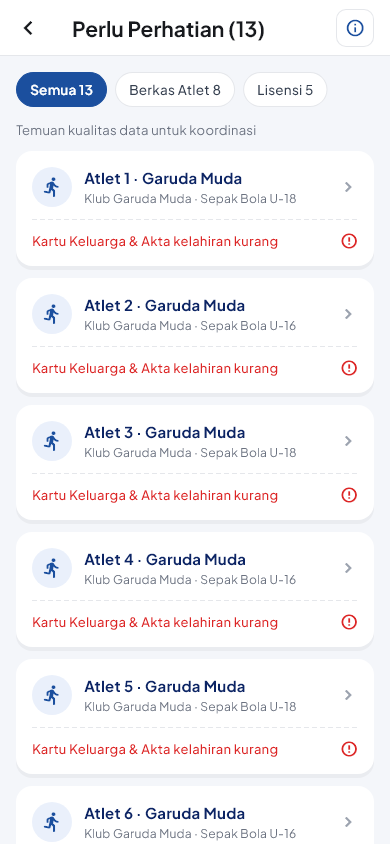
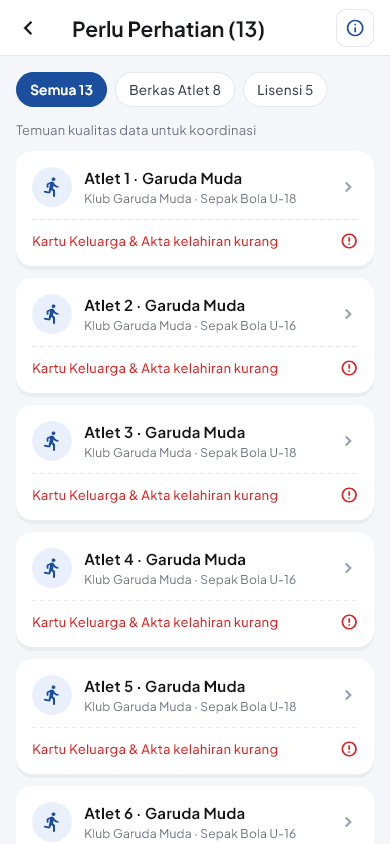
feat(theme): standardisasi warna judul kartu menggunakan KokColors.cardTitle sesuai wireframe slide 10

diff --git a/lib/core/theme.dart b/lib/core/theme.dart
@@ -1,14 +1,43 @@
 import 'package:flutter/material.dart';
 
 abstract final class KokColors {
-  static const navy = Color(0xFF071B68);
-  static const blue = Color(0xFF1B4F9E);
-  static const ink = Color(0xFF173D75);
-  static const background = Color(0xFFF4F6FA);
+  // --- Palet Warna Resmi (Dokumen Wireframe Slide 10) ---
+  /// Hitam (#141414) - Teks utama, judul kartu, garis tegas
+  static const textPrimary = Color(0xFF141414);
+  /// Alias semantik untuk teks judul pada kartu/baris daftar
+  static const cardTitle = textPrimary;
+
+  /// Abu teks (#666666) - Keterangan sekunder, meta
+  static const textSecondary = Color(0xFF666666);
   static const muted = Color(0xFF727782);
-  static const pale = Color(0xFFEAF0FB);
-  static const red = Color(0xFFC62828);
+
+  /// Biru primer (#1B4FA0 / #1B4F9E) - Warna utama: header, tab aktif, tombol utama
+  static const blue = Color(0xFF1B4F9E);
+  static const bluePrimary = blue;
+
+  /// Biru tua (#123A75) - Teks di atas biru, label penegas
+  static const ink = Color(0xFF173D75);
+  static const navy = Color(0xFF071B68);
+  static const deepNavy = Color(0xFF0C2464);
+
+  /// Biru sedang (#4D7FC9) - Bar data, ikon, garis aktif
+  static const blueMedium = Color(0xFF4D7FC9);
+
+  /// Biru muda (#E9F0FB) - Latar kartu terpilih, panel info
+  static const pale = Color(0xFFE9F0FB);
+  static const blueLight = pale;
+
+  /// Kuning (#F2B90C) - Sorot pencarian, status perlu dilengkapi
   static const yellow = Color(0xFFF2B90C);
+
+  /// Merah (#C62828) - Kritis: berkas kurang, lisensi kedaluwarsa
+  static const red = Color(0xFFC62828);
+
+  /// Latar belakang aplikasi umum (#F4F6FA)
+  static const background = Color(0xFFF4F6FA);
+
+  /// Abu garis (#CFCAC0 / #E5E7EB) - Batas kartu, chip pasif, pemisah
+  static const borderGray = Color(0xFFE5E7EB);
 }
 
 ThemeData kokTheme() => ThemeData(

diff --git a/lib/features/profile_page.dart b/lib/features/profile_page.dart
@@ -706,7 +706,7 @@ class _SyncStatusCard extends ConsumerWidget {
                   style: const TextStyle(
                     fontWeight: FontWeight.w700,
                     fontSize: 14,
-                    color: Color(0xFF0C2464),
+                    color: KokColors.cardTitle,
                   ),
                 ),
               ),
@@ -792,7 +792,7 @@ class _MenuTile extends StatelessWidget {
                 style: const TextStyle(
                   fontWeight: FontWeight.w700,
                   fontSize: 15,
-                  color: Color(0xFF0C2464),
+                  color: KokColors.cardTitle,
                 ),
               ),
               const SizedBox(height: 3),

diff --git a/lib/features/attention_page.dart b/lib/features/attention_page.dart
@@ -397,7 +397,7 @@ class AttentionCard extends StatelessWidget {
                             style: const TextStyle(
                               fontWeight: FontWeight.w700,
                               fontSize: 15,
-                              color: Color(0xFF0C2464),
+                              color: KokColors.cardTitle,
                             ),
                           ),
                           const SizedBox(height: 2),

diff --git a/lib/features/club_detail/club_person_card.dart b/lib/features/club_detail/club_person_card.dart
@@ -50,7 +50,7 @@ class ClubPersonCard extends StatelessWidget {
                         maxLines: 2,
                         overflow: TextOverflow.ellipsis,
                         style: const TextStyle(
-                          color: Color(0xFF17191D),
+                          color: KokColors.cardTitle,
                           fontSize: 15,
                           fontWeight: FontWeight.w700,
                         ),

diff --git a/lib/features/committee_page.dart b/lib/features/committee_page.dart
@@ -675,7 +675,7 @@ class CommitteeMemberCard extends StatelessWidget {
                         style: const TextStyle(
                           fontSize: 15,
                           fontWeight: FontWeight.w700,
-                          color: Color(0xFF0C2464),
+                          color: KokColors.cardTitle,
                         ),
                       ),
                       const SizedBox(height: 2),

diff --git a/lib/features/clubs_page.dart b/lib/features/clubs_page.dart
@@ -508,7 +508,7 @@ class ClubTile extends StatelessWidget {
                       style: const TextStyle(
                         fontSize: 16,
                         fontWeight: FontWeight.w700,
-                        color: Color(0xFF0C2464),
+                        color: KokColors.cardTitle,
                       ),
                     ),
                     const SizedBox(height: 4),

diff --git a/lib/features/sports_page.dart b/lib/features/sports_page.dart
@@ -93,6 +93,7 @@ class _SportsPageState extends State<SportsPage> {
                             style: const TextStyle(
                               fontSize: 16,
                               fontWeight: FontWeight.w700,
+                              color: KokColors.cardTitle,
                             ),
                           ),
                           const SizedBox(height: 5),

diff --git a/lib/features/club_detail/club_document_tab.dart b/lib/features/club_detail/club_document_tab.dart
@@ -24,7 +24,7 @@ class ClubDocumentTab extends StatelessWidget {
                 Text(
                   title,
                   style: const TextStyle(
-                    color: KokColors.ink,
+                    color: KokColors.cardTitle,
                     fontSize: 16,
                     fontWeight: FontWeight.w700,
                   ),

diff --git a/lib/features/home_page.dart b/lib/features/home_page.dart
@@ -548,7 +548,7 @@ class AttentionTile extends StatelessWidget {
                 style: const TextStyle(
                   fontWeight: FontWeight.w700,
                   fontSize: 14,
-                  color: KokColors.ink,
+                  color: KokColors.cardTitle,
                 ),
               ),
               const SizedBox(height: 3),
